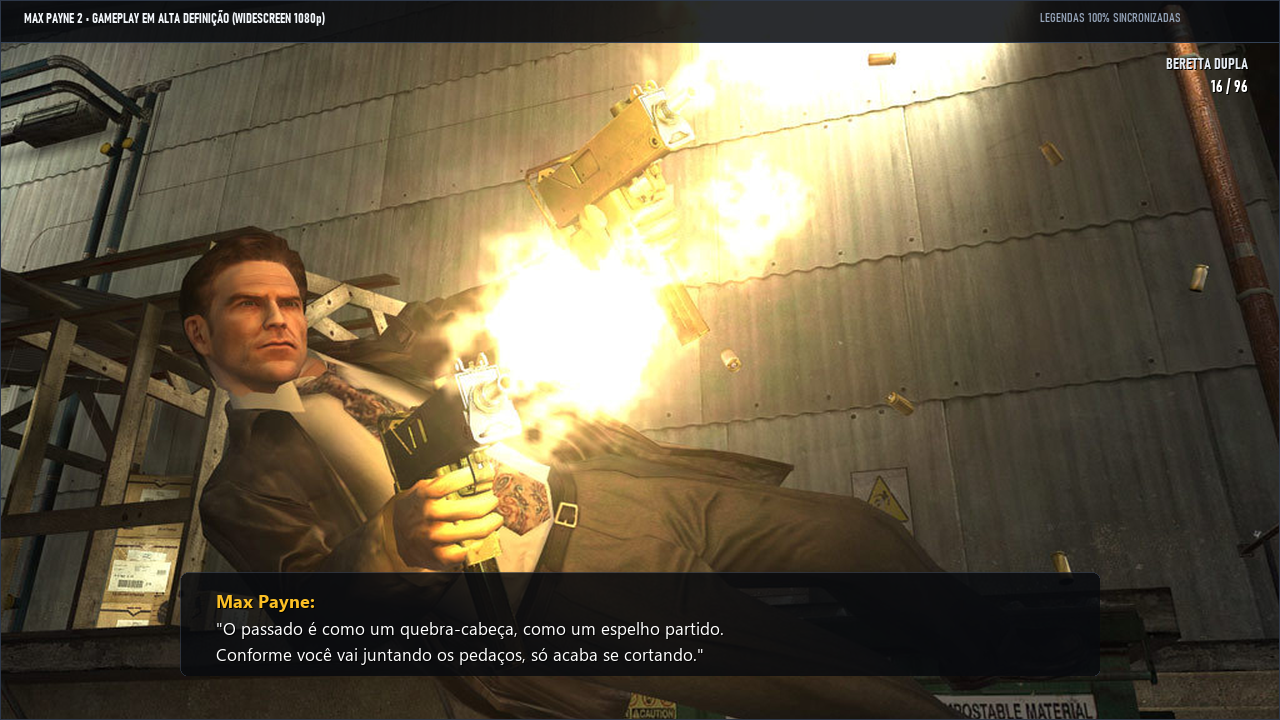
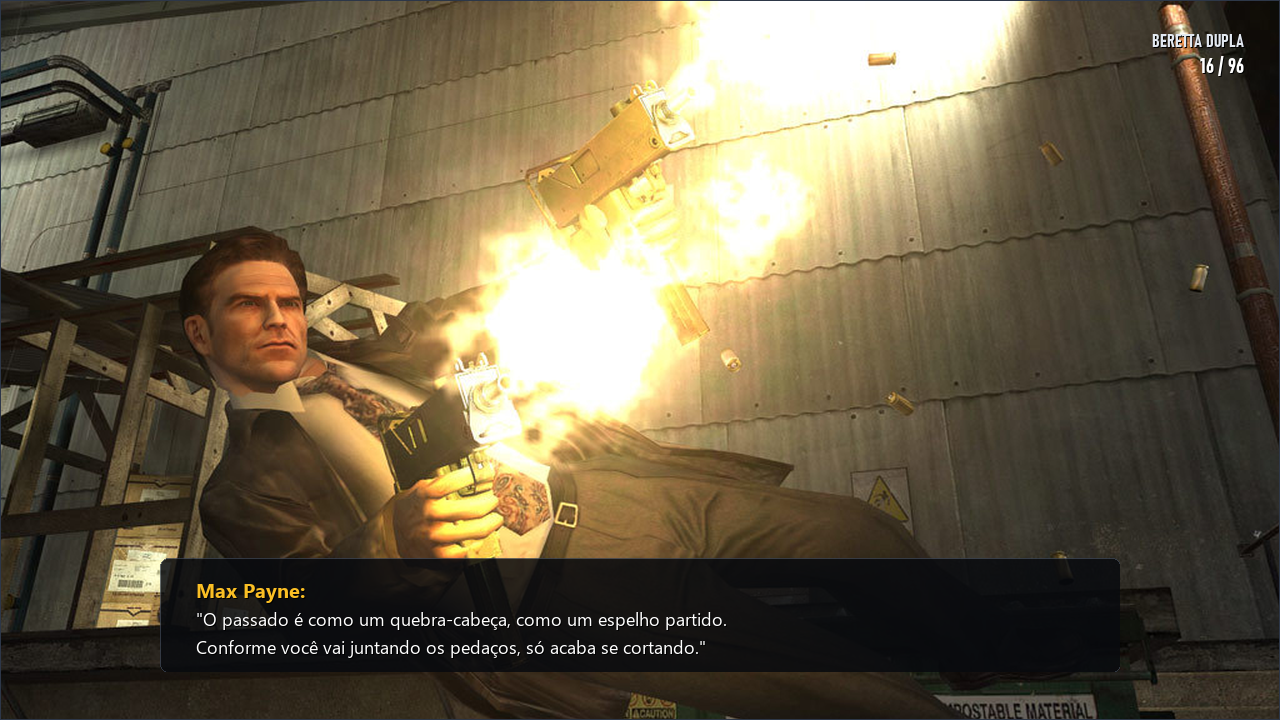
fix: proporcoes 100% naturais das graphic novels sem distorcao, remocao de barras artificiais com textos pequenos e melhoria visual

Changed region(s): [[0.125, 0.7639, 0.875, 0.9472], [0.0, 0.0, 0.9688, 0.1222]]

diff --git a/README.md b/README.md
@@ -53,17 +53,17 @@ A **Versão 3.0.0 Definitiva** foi desenvolvida para solucionar cada uma dessas 
 ### 🎮 Gameplay Real em Widescreen 1080p
 Diálogos de rádio, transmissões de TV, falas de inimigos, cutscenes e armas do HUD totalmente em Português do Brasil:
 
-![Demonstração de Gameplay e Legendas](docs/images/gameplay_subtitles_v3.png)
+![Demonstração de Gameplay e Legendas](docs/images/gameplay_showcase_v3.png)
 
 ### 📖 Graphic Novels 100% Traduzidas nos Balões
-Todas as 138 páginas de quadrinhos desenhadas pelo mestre Ashley Wood foram traduzidas diretamente nos balões de fala, com letras nítidas e anti-aliasing de 4x:
+Todas as 138 páginas de quadrinhos desenhadas pelo mestre Ashley Wood foram traduzidas diretamente nos balões de fala, com letras nítidas e proporções originais preservadas:
 
-![Demonstração das Graphic Novels](docs/images/graphic_novels_v3.png)
+![Demonstração das Graphic Novels](docs/images/graphic_novels_showcase_v3.png)
 
 ### 🖼 Telas de Carregamento com Tipografia Oficial
 Todas as 29 telas de introdução de capítulos e o modo *Homem Morto Caminhando* foram adaptadas com fidelidade absoluta:
 
-![Comparativo das Telas de Carregamento](docs/images/loading_screens_v3.png)
+![Comparativo das Telas de Carregamento](docs/images/loading_screens_comparativo_v3.png)
 
 ---
 
